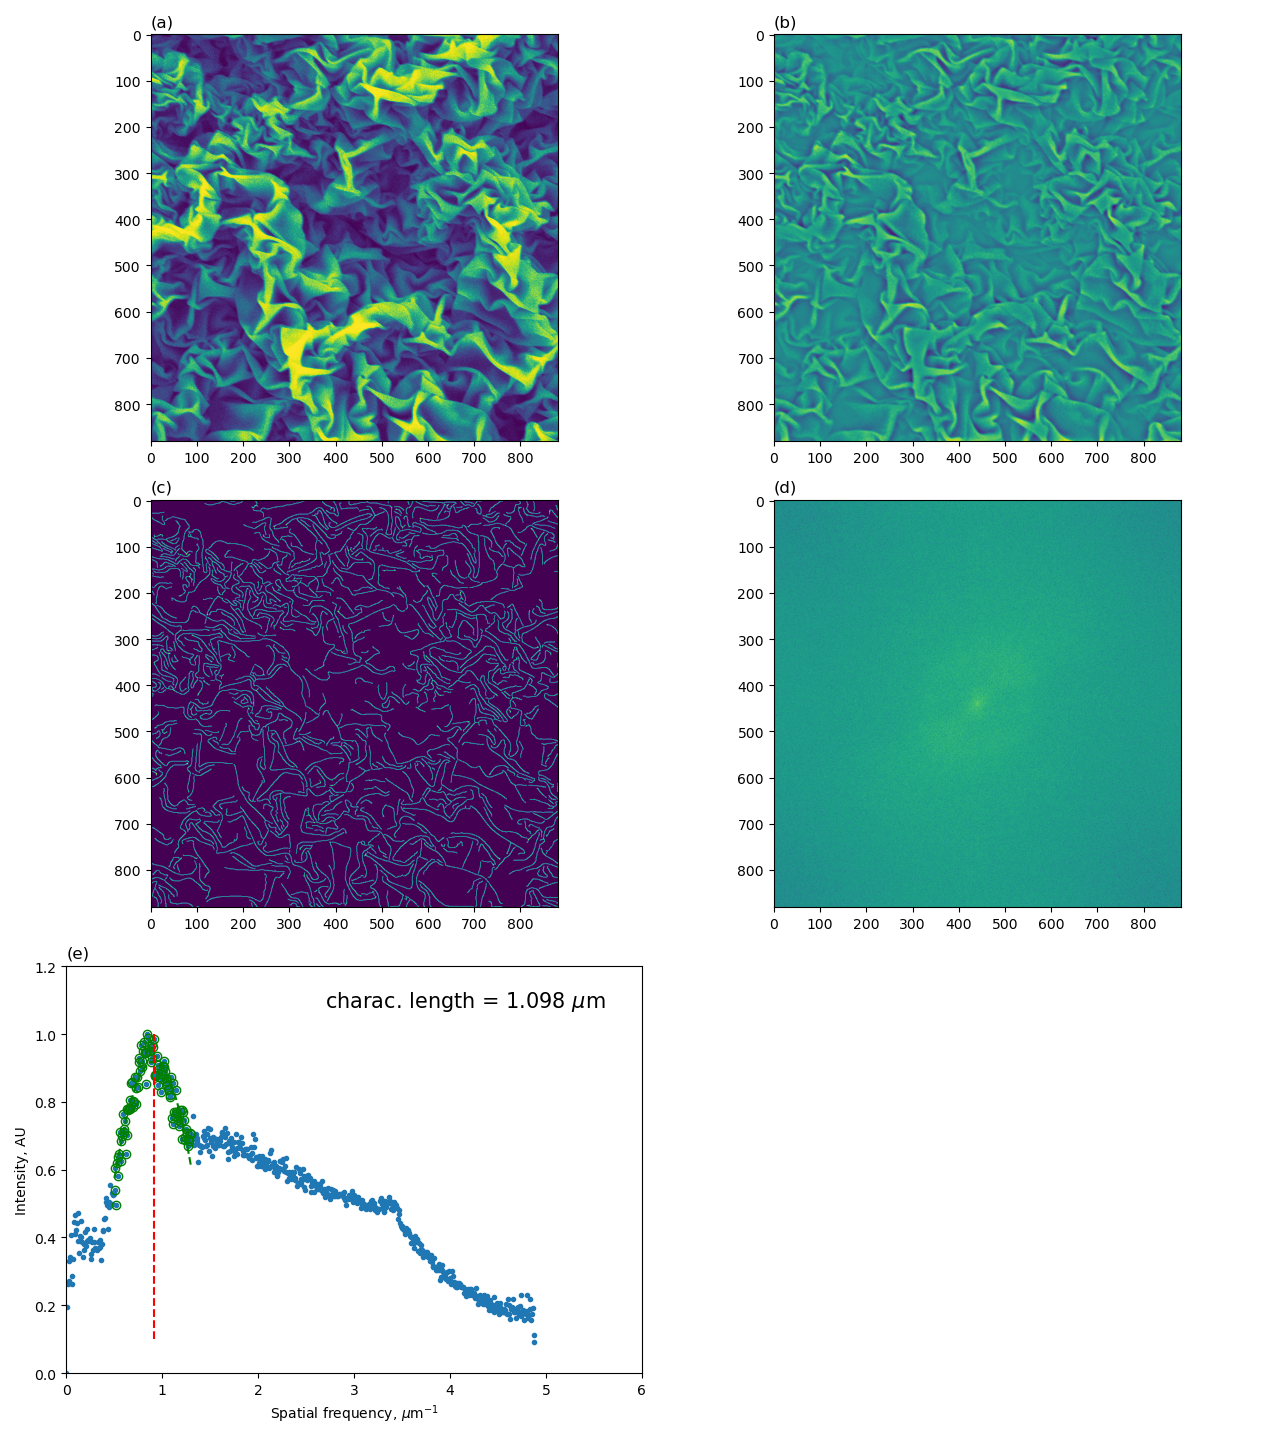
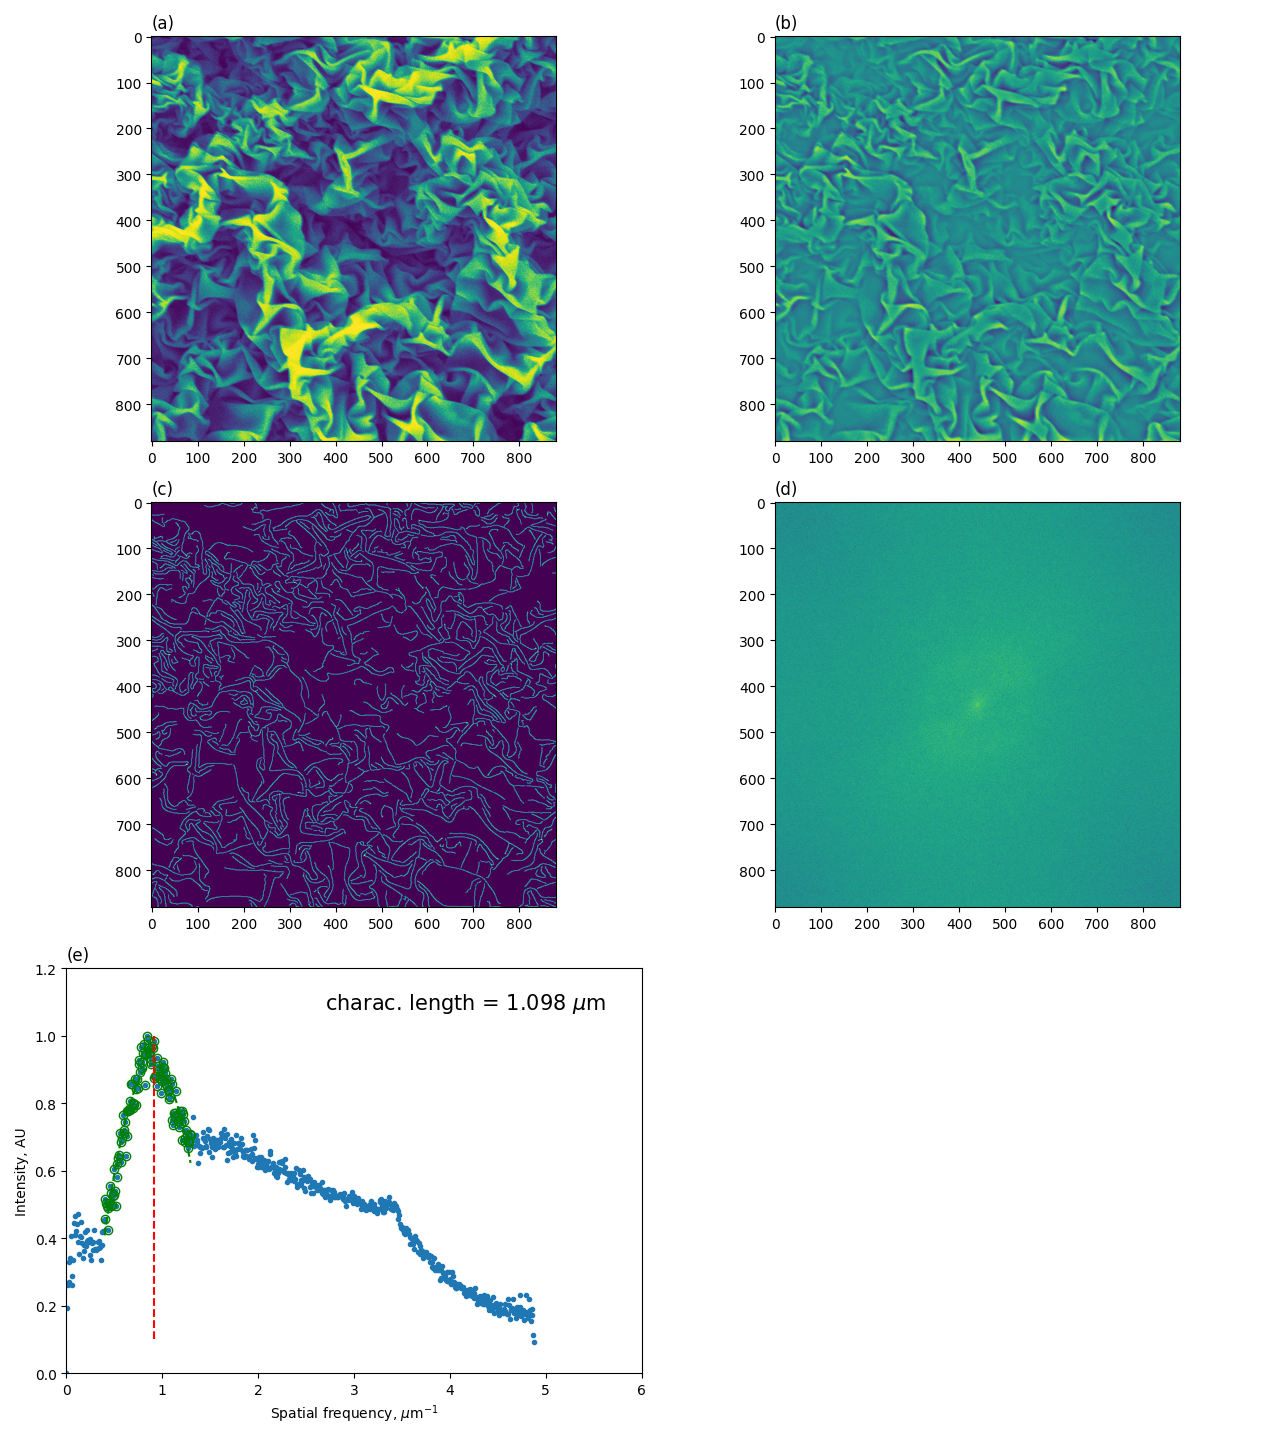
removed std calc and annotation

diff --git a/test_cases/experimental_surface_images/cnc-xg_biaxial_nanowrinkled/src/characteristic_length.py b/test_cases/experimental_surface_images/cnc-xg_biaxial_nanowrinkled/src/characteristic_length.py
@@ -47,8 +47,8 @@ from surfacetools.periodicfeatures import radially_averaged_PSD
 # inpput parameters
 # SEM image file
 file = str(sys.argv[1])
-file_name = re.findall(r"([^^.\s]+)\.", file)[0]
-file_type = re.findall(r"\.\w+", file)[0]
+file_name = re.findall(r"^(.*)(\.[a-zA-Z]{3})$", file)[0][0]
+file_type = re.findall(r"^(.*)(\.[a-zA-Z]{3})$", file)[0][1]
 img_file = "images/" + file_name + file_type
 # deconvolution
 dconv = bool(sys.argv[2])
@@ -57,12 +57,12 @@ POP_NUM = int(sys.argv[3])                      # number of populations
 bar_length = float(sys.argv[4])                 # um
 # feature size range of interest
 # population 1
-lo_len_lim_pop1 = float(sys.argv[5])        # 1/um
-hi_len_lim_pop1 = float(sys.argv[6])       # 1/um
+LO_LEN_LIM_POP1 = float(sys.argv[5])        # 1/um
+HI_LEN_LIM_POP1 = float(sys.argv[6])       # 1/um
 # population 2
 if int(POP_NUM == 2):
-    lo_len_lim_pop2 = float(sys.argv[7])        # 1/um
-    hi_len_lim_pop2 = float(sys.argv[8])       # 1/um
+    LO_LEN_LIM_POP2 = float(sys.argv[7])        # 1/um
+    HI_LEN_LIM_POP2 = float(sys.argv[8])       # 1/um
 
 #############################################################################################
 # import SEM image in gray-scale
@@ -122,25 +122,27 @@ rasp_norm_au = rasp_norm/np.max(rasp_norm)
 #############################################################################################
 # curve fit
 # population 1
-ind = np.where(np.logical_and((1/lam>lo_len_lim_pop1),(1/lam<hi_len_lim_pop1)))
-x_pop1 = 1/lam[ind]              # 1/um
-y_pop1 = rasp_norm_au[ind]       # AU
-deg = 2                     # quadratic poly
-z = np.polyfit(x_pop1,y_pop1,deg)     # polynomial coeff
-p = np.poly1d(z)            # 
+ind = np.where(np.logical_and((1/lam>LO_LEN_LIM_POP1),(1/lam<HI_LEN_LIM_POP1)))
+x_pop1 = 1/lam[ind]                 # 1/um
+y_pop1 = rasp_norm_au[ind]          # AU
+
+deg = 2                             # quadratic poly
+z = np.polyfit(x_pop1,y_pop1,deg)   # polynomial coeff
+p = np.poly1d(z)
 mdl_pop1 = p(x_pop1)
-pop1_feature_size = x_pop1[np.where(mdl_pop1 == np.max(mdl_pop1))]      # 1/um
+pop1_feature_size = x_pop1[np.where(mdl_pop1 == np.max(mdl_pop1))]  # 1/um
 
 # population 2
 if int(POP_NUM == 2):
-    ind = np.where(np.logical_and((1/lam>lo_len_lim_pop2),(1/lam<hi_len_lim_pop2)))
-    x_pop2 = 1/lam[ind]              # 1/um
-    y_pop2 = rasp_norm_au[ind]       # AU
-    deg = 2                     # quadratic poly
-    z = np.polyfit(x_pop2,y_pop2,deg)     # polynomial coeff
-    p = np.poly1d(z)            # 
+    ind = np.where(np.logical_and((1/lam>LO_LEN_LIM_POP2),(1/lam<HI_LEN_LIM_POP2)))
+    x_pop2 = 1/lam[ind]                 # 1/um
+    y_pop2 = rasp_norm_au[ind]          # AU
+
+    deg = 2                             # quadratic poly
+    z = np.polyfit(x_pop2,y_pop2,deg)   # polynomial coeff
+    p = np.poly1d(z)
     mdl_pop2 = p(x_pop2)
-    pop2_feature_size = x_pop2[np.where(mdl_pop2 == np.max(mdl_pop2))]      # 1/um
+    pop2_feature_size = x_pop2[np.where(mdl_pop2 == np.max(mdl_pop2))]  # 1/um
 
 #############################################################################################
 # visualization 
@@ -179,7 +181,7 @@ if int(POP_NUM == 2):
     axs[2,0].set_ylabel("Intensity, AU")
     axs[2,0].set_xlabel("Spatial frequency, $\mu$m$^{-1}$")
     axs[2,0].annotate('charac. length = ' + str(np.around(1/pop1_feature_size[0],decimals=3)) + ' $\mu$m',
-                      xy=(0.45,0.9), xycoords='axes fraction', fontsize=TEXTFONT)
+                    xy=(0.45,0.9), xycoords='axes fraction', fontsize=TEXTFONT)
     axs[2,0].set_xlim([0,6])
     axs[2,0].set_ylim([0,1.2])
 
@@ -191,7 +193,7 @@ if int(POP_NUM == 2):
     axs[2,1].set_ylabel("Intensity, AU")
     axs[2,1].set_xlabel("Spatial frequency, $\mu$m$^{-1}$")
     axs[2,1].annotate('charac. length = ' + str(np.around(1/pop2_feature_size[0],decimals=3)) + ' $\mu$m',
-                      xy=(0.45,0.9), xycoords='axes fraction', fontsize=TEXTFONT)
+                    xy=(0.45,0.9), xycoords='axes fraction', fontsize=TEXTFONT)
     axs[2,1].set_xlim([0,6])
     axs[2,1].set_ylim([0,1.2])
 else:
@@ -203,7 +205,7 @@ else:
     axs[2,0].set_ylabel("Intensity, AU")
     axs[2,0].set_xlabel("Spatial frequency, $\mu$m$^{-1}$")
     axs[2,0].annotate('charac. length = ' + str(np.around(1/pop1_feature_size[0],decimals=3)) + ' $\mu$m',
-                      xy=(0.45,0.9), xycoords='axes fraction', fontsize=TEXTFONT)
+                    xy=(0.45,0.9), xycoords='axes fraction', fontsize=TEXTFONT)
     axs[2,0].set_xlim([0,6])
     axs[2,0].set_ylim([0,1.2])
     
@@ -211,24 +213,3 @@ else:
     
 f.tight_layout()
 f.savefig("figures/" + file_name + "_summary.png")
-
-# Filtered image
-NROWS = 1; NCOLS = 1
-f, axs = plt.subplots(nrows=NROWS,ncols=NCOLS,
-                      figsize=(NCOLS*FIGWIDTH,NROWS*FIGHEIGHT))
-
-axs.imshow(filtered_image_sq)
-
-f.tight_layout()
-f.savefig("figures/" + file_name + "_filtered.png")
-
-# Filtered edges
-NROWS = 1; NCOLS = 1
-f, axs = plt.subplots(nrows=NROWS,ncols=NCOLS,
-                      figsize=(NCOLS*FIGWIDTH,NROWS*FIGHEIGHT))
-
-axs.imshow(filtered_edges_square)
-
-f.tight_layout()
-f.savefig("figures/" + file_name + "_filtered_edges.png")
-
